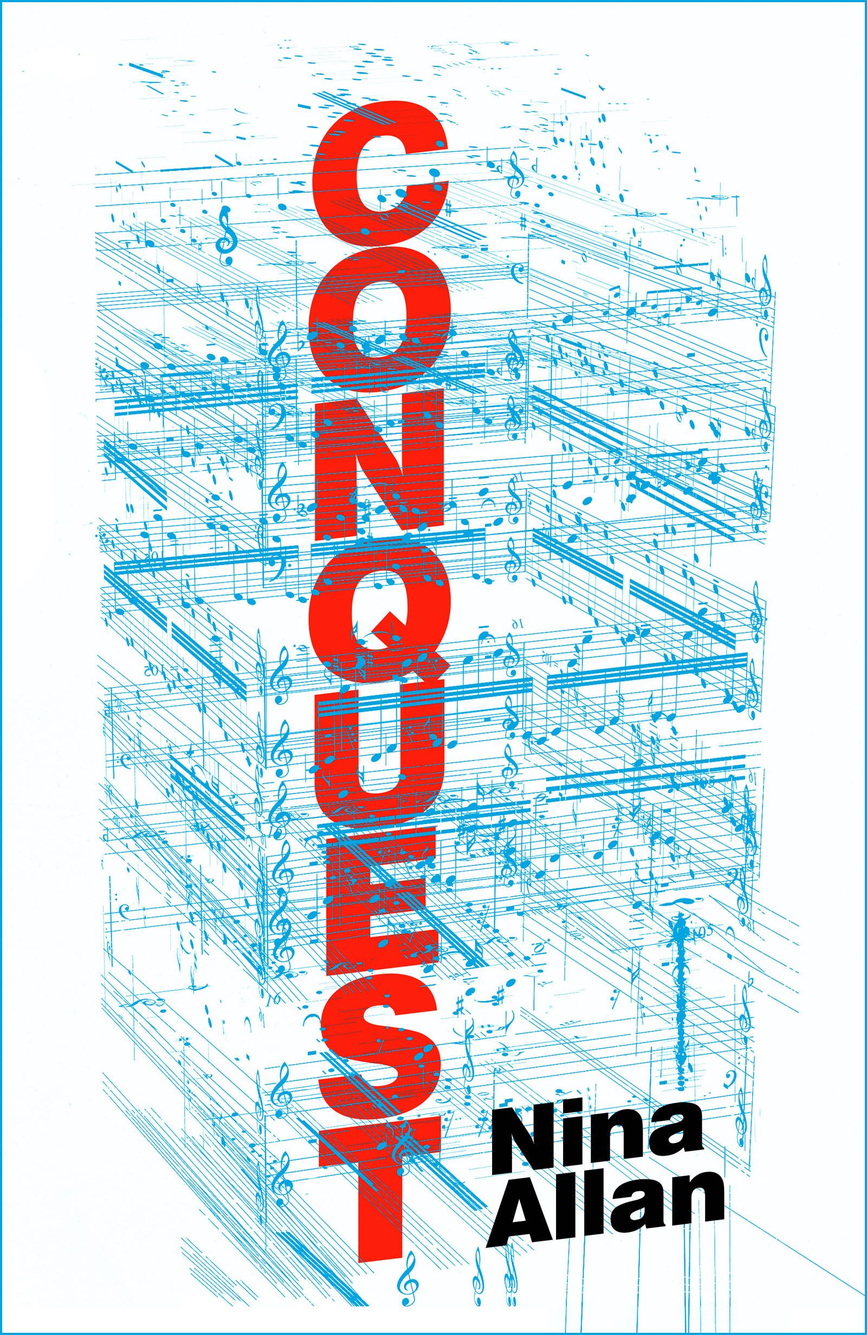
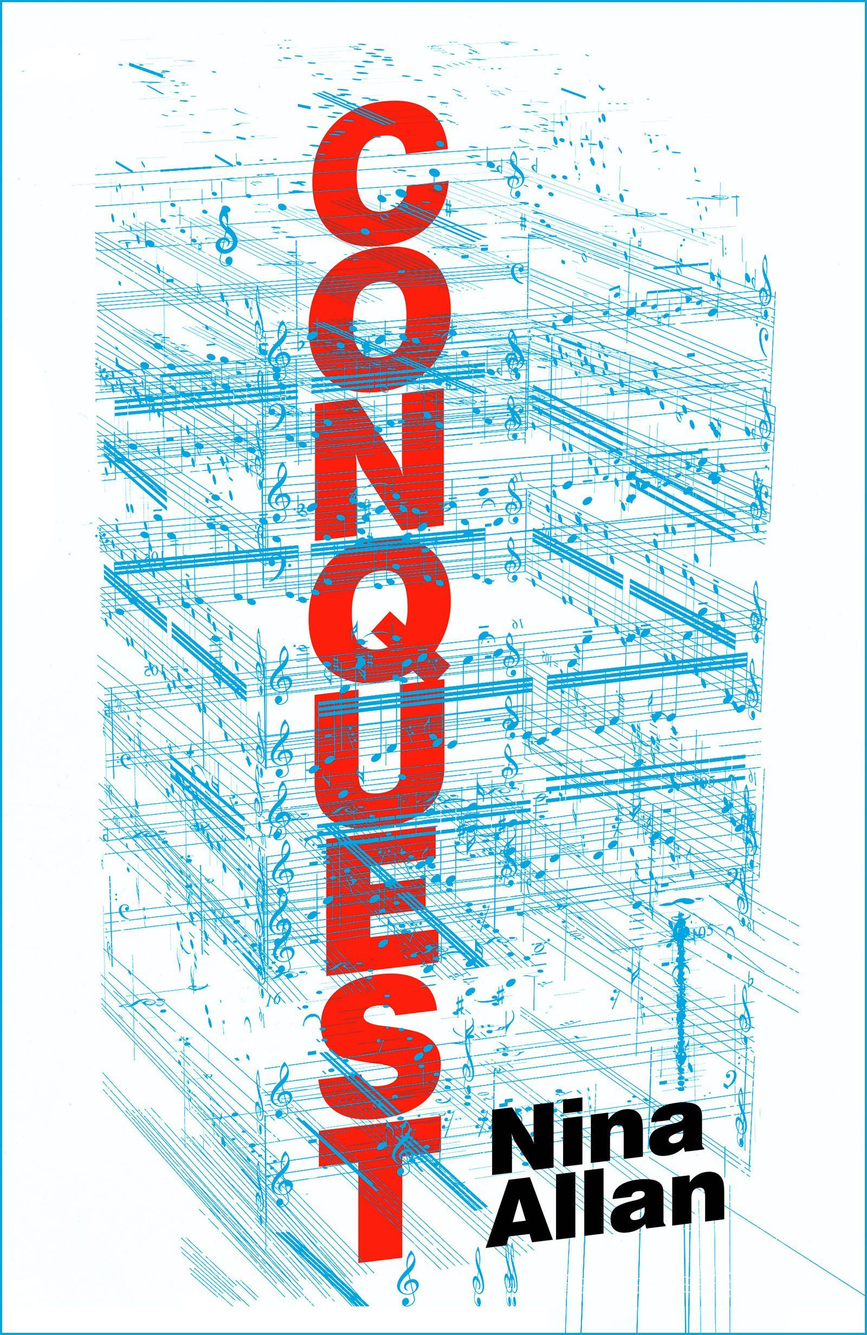
PUBLICATION The Changeling, Apple TV+ (#349)
* PUBLICATION The Changeling, Apple TV+

* Optimised images with calibre/image-actions

---------

diff --git a/content/serie/changeling-apple-tv+/index.md b/content/serie/changeling-apple-tv+/index.md
@@ -1,0 +1,10 @@
+---
+title: "*The Changeling*, Apple TV+"
+date: 2023-11-11T23:11:39+01:00
+id: 131992 
+saison: [1]
+---
+
+Adaptation du roman éponyme écrit par Victor LaValle, *The Changeling* est peut-être la série la plus bizarre que j’ai vue en 2023. La première saison débute pourtant de manière assez classique, avec l’histoire d’un couple qui se forme à New York et d’un enfant qui arrive bien vite. Mais ce n’est pas une belle comédie romantique qui se prépare, la création d’Apple TV+ étant classée dans la catégorie plus mystérieuse du conte horrifique. Je ne veux pas trop en dire, à la fois parce que ce serait gâcher le plaisir de la découverte, et aussi et peut-être surtout, parce que je ne suis pas certain d’avoir tout compris. Le scénario déployé dans les huit épisodes de la première saison est d’une inventivité folle et assez perturbant en même temps. J’adore suivre une histoire sans savoir à l’avance où elle nous mènera et sur ce point, je n’ai pas été déçu. On croit à un moment que l’intrigue va partir dans une direction et c’est vers une toute autre qu’elle se dirige en réalité. Quand un personnage semblait assez bien défini, un épisode vient remettre tout en cause. Quand une situation semblait se stabiliser, un évènement vient la perturber. 
+
+Cette instabilité peut aussi être assez frustrante par moments. Le dernier épisode de la saison en est un bon exemple, car s’il apporte quelque réponse, il ouvre encore davantage de questions. C’est tout à fait normal : Kelly Marcel [a expliqué](https://www.hollywoodreporter.com/tv/tv-features/the-changeling-showrunner-author-season-2-interview-1235618467/) qu’une deuxième et dernière saison était prévue, si Apple le voulait bien, et qu’elle apporterait toutes les réponses. En attendant, *The Changeling* devait laisser les spectateurs se demander ce qui s’était passé exactement dans cette fin bizarre, même si les bizarreries se sont accumulées pendant toute la saison. De cet étrange peuple sous-terrain au monstre qui attaque l’île, le côté mystérieux a été soigneusement entretenu du début à la fin, tout en l’intercalant à des séquences parfaitement réalistes. C’est un mélange audacieux, qui colle bien à l’idée du projet et qui déroutera forcément les spectateurs. J’ai pour ma part apprécié cet alliage surprenant ainsi que cette histoire résolument féministe qui propose un regard original sur la maternité. J’espère qu’Apple TV+ écoutera son créateur et offrira à sa série une nouvelle saison pour conclure *The Changeling*. Pour une fois que l’on a un récit qui sort des sentiers battus, ce serait dommage de ne pas aller jusqu’au bout…
